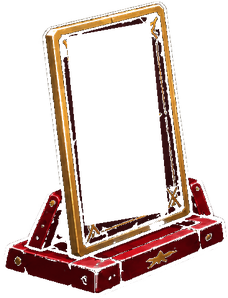
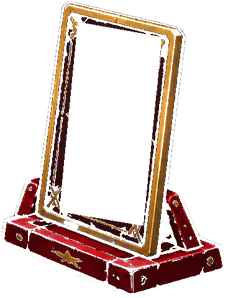
HQ siege: mirror-facing plaques (blue → centre ← red)
Correct the stand orientation to match the reference: the two stands are now
MIRROR-facing, not same-direction. The red stand is a horizontal flip + recolour
of the blue, so the blue plaques on the left face inward-right and the red
plaques on the right face inward-left — two opponents across the field. Each
stays upright with its base underneath. The red plaque quad is the horizontal
mirror of the blue's so card art seats correctly in both. One reusable blue
sprite + one reusable red sprite, placed as multiple resizable instances.

Claude-Session: https://claude.ai/code/session_016VTm27Hwu1rezwUJ3ywuvZ

diff --git a/artifacts/api-server/src/bot/animations/siege-field.ts b/artifacts/api-server/src/bot/animations/siege-field.ts
@@ -123,11 +123,13 @@ const SCENE_PREFIX = "siege-scene";
 // this quad; the sprite's gold frame + base rail then occlude it exactly like a
 // real card seated in the stand. Corners: top-left, top-right, bottom-left
 // (bottom-right is derived — an iso rectangle projects to a parallelogram).
-// Both stands are the SAME sprite shape (the red is a recolour of the blue), so
-// they face the SAME direction and share one plaque quad.
+// The two stands are MIRROR-facing (the red is a horizontal flip + recolour of
+// the blue): blue sits on the left facing inward-right, red sits on the right
+// facing inward-left, like two opponents across the field. Each has its own
+// plaque quad — the red's is the horizontal mirror of the blue's.
 const PLAQUE_QUAD = {
   blue: { tl: [0.300, 0.129], tr: [0.649, 0.083], bl: [0.381, 0.749] },
-  red:  { tl: [0.300, 0.129], tr: [0.649, 0.083], bl: [0.381, 0.749] },
+  red:  { tl: [0.351, 0.083], tr: [0.700, 0.129], bl: [0.270, 0.703] },
 } as const;
 // Drawn stand size (matches the sprite aspect; each slot scales this down).
 const STAND_W = 228, STAND_H = 298;
